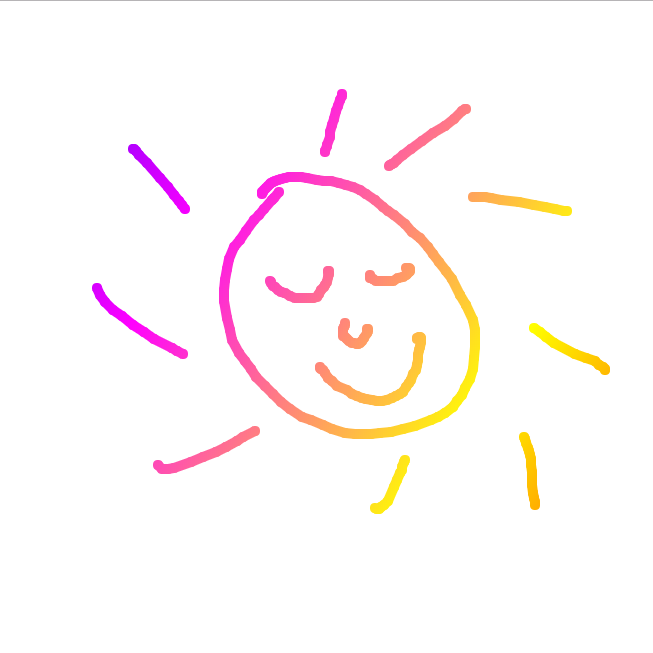
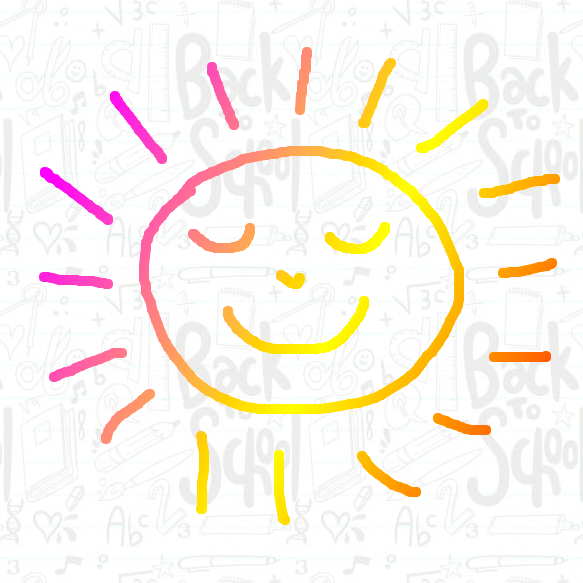
development

diff --git a/canvas.html b/canvas.html
@@ -8,6 +8,12 @@
     </head>
     <body>
       <canvas id="canvas">Your browser does not support canvas.</canvas>
+      <form id="menu_buttons">
+        <button id="menu" class="btn">menu</button>
+        <button id="clear" class="btn dropDown">clear</button>
+        <button id="save" class="btn dropDown">save</button>
+        <button id="replay" class="btn dropDown">replay</button>
+      </form>
     </body>
 
     <script>
@@ -59,11 +65,12 @@
       };
 
       function clear(){
-        ctx.fillStyle = 'white';
-        ctx.fillRect(0, 0, canv.width, canv.height);
+        ctx.clearRect(0,0,canv.width, canv.height);
+        // ctx.fillStyle = 'white';
+        // ctx.fillRect(0, 0, canv.width, canv.height);
 
-        ctx.beginPath();
-        ctx.fillStyle = grad;
+        // ctx.beginPath();
+        // ctx.fillStyle = grad;
       };
       function replay(){
         var timer = setInterval(function(){
@@ -103,6 +110,45 @@
         }        
         if(e.keyCode == 67){ // c
           clear();
+        }
+      });
+
+////////////////Buttons/////////////////////////
+      var menuBtn = document.getElementById('menu'),
+          clearBtn = document.getElementById('clear'),
+          saveBtn = document.getElementById('save'),
+          replayBtn = document.getElementById('replay'),
+          dropDowns = document.getElementsByClassName('dropDown'),
+          dropDownsArr = Array.from(dropDowns);
+
+      menuBtn.addEventListener('click', function(e){
+        e.preventDefault();
+        for(var i =0; i < dropDownsArr.length; i++){
+          dropDownsArr[i].classList.toggle("dropDown");
+        }
+      });
+      
+      clearBtn.addEventListener('click', function(e){
+        e.preventDefault();
+        clear();
+        for(var i =0; i < dropDownsArr.length; i++){
+          dropDownsArr[i].classList.toggle("dropDown");
+        }
+      });
+      saveBtn.addEventListener('click', function(e){
+        e.preventDefault();
+        save();
+        for(var i =0; i < dropDownsArr.length; i++){
+          dropDownsArr[i].classList.toggle("dropDown");
+        }
+      });
+      replayBtn.addEventListener('click', function(e){
+        e.preventDefault();
+        coords = JSON.parse(localStorage.getItem('coords'));
+        clear();
+        replay();
+        for(var i =0; i < dropDownsArr.length; i++){
+          dropDownsArr[i].classList.toggle("dropDown");
         }
       });
 

diff --git a/Portfolio/Canvas/canvas.css b/Portfolio/Canvas/canvas.css
@@ -6,5 +6,32 @@ body{
 	position: fixed;
 	top: 0;
 	left: 0;
-	background-image: url('bb_back_dark.png');
+	background-image: url('backToSchool.jpg');
+}
+#menu_buttons{
+	position: relative;
+	float: right; 
+	margin-right: -10px;     
+	width: 15vw;
+}
+.btn{
+	margin-top: 1vh;
+	width: 12vw;
+	min-width: 18vh;
+	height: 7vh;
+	border-radius: 7px;
+	background-color: rgba(0, 0, 0, 0.5);
+	font-weight: bold;
+	font-size: 3.5vh;
+	color: white;
+	font-family: Comic Sans MS, Comic Sans, cursive;
+}
+.btn:active, button:focus {
+  outline: none;
+}
+.btn:active {
+  color: rgba(0, 0, 0, 0.7);
+}
+.dropDown {
+	visibility: hidden;
 }
